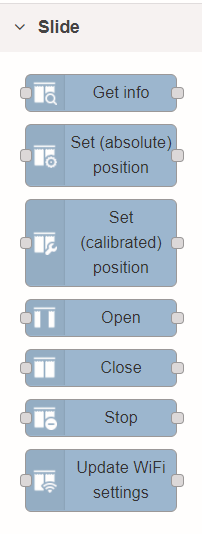
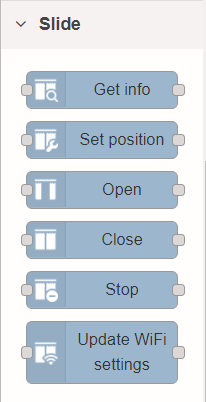
Updated readme

diff --git a/README.md b/README.md
@@ -42,13 +42,7 @@ As you can see, it contains a 'calibrate' button. Once you have entered the host
  - Saves the 'open' offset (this should be near the 0.0 range)
  - Restores the curtain to the approximate position it was while calibration was initiated.
 
-This offset is then used on subsequent calls on the `slide-set-calibrated-position` node, to more precisely determine the curtain position and to see if an actual call to the motor is even needed.
-
-For example;
- 
- - If the open offset is actually `0.09` and the closed offset `0.87` (just as an example) setting the curtain to `50%` would mean that the curtain should move to position: `0.09 + (0.5 * (0.87 - 0.09)) = 0.48` (which is exactly halfway between `0.09` and `0.87`).
- - If the open offset is actually `0.09` and the curtain is already at `0.09`; no `setPosition` command will be issued if you want to open the curtain; meaning you shouldn't hear the motor wirring.
- - If the close offset is actually `0.87` and the curtain is already at `0.87`; no `setPosition` command will be issued if you want to close the curtain; meaning you shouldn't hear the motor wirring.
+This offset is then used on subsequent calls on the `slide-set-position` node, to more precisely determine the curtain position and to see if an actual call to the motor is even needed. You can also set the 'open' and 'close' offset yourself if you have for example a curtain that you want to limit the open position at 10% (in case you have a blind wall or something).
 
 A full run of the calibration procedure can be seen on my Twitter timeline:
 
@@ -60,41 +54,28 @@ Use this node in order to get information about the state of a certain Slide. Th
 
 ![slide-get-info](https://github.com/gvdhoven/node-red-contrib-slide/blob/main/assets/readme/img/slide-get-info.png?raw=true)
 
-### slide-set-absolute-position
+### slide-set-position
 
-This node is able to set an absolute position on the slide, from 0 to 100%. This will most probably not mean that your curtain is half-way closed if you pass in the following payload `{ "payload": { "percent": 50 } }`, due to the fact that the Slide at `open` position can actually be at e.g. 4% and that same curtain can report a closed state of 98%. Halfway in this case would then be 51%. This math is done for you if you take the next Node; `slide-set-calibrated-position`.
+This node is able to set a position on the slide, from 0 to 100%. Use this in combination with an inject node.
 	
 ![Inject node sample](https://github.com/gvdhoven/node-red-contrib-slide/blob/main/assets/readme/img/inject-node.png?raw=true)
 
-A sample response is shown here:
-
-```
-	{
-	   "response":"success",
-	   "requestedPosition":1,
-	   "currentPosition":0.98,
-	   "openPosition":0,
-	   "closedPosition":1,
-	   "suggestToCalibrate":true
-	}
-```
-
-### slide-set-calibrated-position
-
-This node takes the calibration settings found by clicking the 'Calibrate' button in the config node and applies that to a percentage offset. In the example shown at the `slide-set-absolute-position` node, the same payload `{ "payload": { "percent": 50 } }` would result in the Slide moving to 51%.
+Note: this will most probably not mean that your curtain is half-way closed if you pass in the following payload `{ "payload": { "percent": 50 } }`, due to the fact that the Slide at `open` position can actually be at e.g. 4% and that same curtain can report a closed state of 98%. Halfway in this case would then be 51%. Since this calculation is different per length of the rod, it is up to you to define your own values.
 
 A sample response is shown here:
 
 ```
 	{
-	   "response":"success",
-	   "requestedPosition":1,
-	   "currentPosition":0.98,
-	   "openPosition":0,
-	   "closedPosition":1,
-	   "suggestToCalibrate":true
+	   "response": "success",
+	   "requestedPosition": 1,
+	   "currentPosition": 0.98,
+	   "openPosition": 0,
+	   "closedPosition": 1,
+	   "openPercentage": 98,
+	   "suggestToCalibrate": false
 	}
 ```
+
 
 ### slide-open
 
